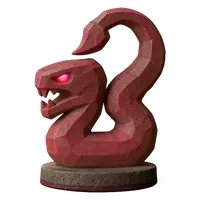
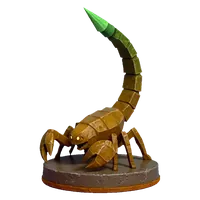
v1.90.28: Der Skorpion ist ein Skorpion
Besitzer 4.10.: "die Figur sieht ja nicht aus wie ein Skorpion ... mir fehlen
Füße und Scheren". Bisher war er eine rote Schlange mit Stachelschwanz.

Drei Anläufe, jeder gezeigt: rot und glatt mit einer Schere; beige mit einer
grünen Blase als Stachel ("es muss geschnitzt aussehen ... komplett anderer
Style ... nicht wie eine Blase"); der dritte AUS DEM HETZER HERAUS geschnitzt -
dessen freigegebenes Bild ging als Vorlage an FLUX Kontext, nur das Wesen wurde
getauscht. So bleiben Oberfläche und Farbe im Stil: dunkelbeige, acht Beine,
zwei Scheren, Mundzangen, Augen, ein geschnitzter Dorn als Stachel. Der Verlauf
ins Grüne den Schwanz hinauf ist gerechnet. Freigegeben ("ist auch super").

Sein Akzent in bosses.js folgt der Figur (#f472b6 -> #c9a24a): er färbt den
Hintergrund der Karte ("beim Einbinden bitte auch die Farben auf den
Hintergrund der Karten übernehmen"). Höhe am Brett 76 % wie bisher - der
Körper ist flach, die Höhe bringt der Schwanz.

Sockel einzeln gemessen (Teller 46), Farbe nur für ihn übernommen. Altes Bild
in archiv/ausgemustert/v1.90.28/.

Proben: 31 Suiten / 2691 Prüfungen (vorher 2690), Kette grün. Am echten Brett,
auf der Karte und im Blatt mit Band angesehen.

Claude-Session: https://claude.ai/code/session_018Tfvp769kvKv88eRG4ctPp

diff --git a/src/content/bosses.js b/src/content/bosses.js
@@ -125,7 +125,7 @@ export const BOSSES = [
   B("b06", "Das Bollwerk",     "The Bulwark",     "golem",   "#9aa5b7", 21, 3, { slides: ORTHO, range: 1 }, { flavorDe: "Man baute es, um etwas fernzuhalten. Niemand weiß mehr, was — es selbst weiß es noch.", flavorEn: "It was built to keep something out. No one remembers what — it still does.", abilities: ["steinhaut", "widerhall", "unsterblich", "schrecken"] }),  // 18->11: Kapitel-I-Grenze (12 Schlaege atk-2)
   B("b07", "Der Geist",        "The Ghost",       "wraith",  "#7dd3fc",  15, 9, { leaps: RING2 }, { flavorDe: "Er ist der Rest eines Eides, der nicht sterben durfte, ehe er erfüllt war.", flavorEn: "He is the remnant of an oath that was not allowed to die before it was kept.", abilities: ["blenden"] }),  // Glaskanone, jetzt fluechtig
   B("b08", "Kanonier",         "Cannoneer",       "golem",   "#ffd166", 16, 8, { slides: ORTHO, range: 3 }, { flavorDe: "Er zählt bis drei und die Mauer fällt; er hat nie weiter zählen müssen.", flavorEn: "He counts to three and the wall falls; he has never needed to count further.", aura: { type: "courtHp", n: 2 }, abilities: ["wegelagerei", "steinhaut", "schrecken", "blenden", "widerhall"] }),  // 10->9
-  B("b09", "Skorpion",         "Scorpion",        "serpent", "#f472b6",  16, 8, { leaps: [...sym(2, 2), ...ORTHO] }, { flavorDe: "Sein Stich schmerzt nicht sofort — das ist das Heimtückische daran.", flavorEn: "His sting does not hurt at once — that is the treachery of it.", abilities: ["gift", "aderlass", "schrecken"] }),
+  B("b09", "Skorpion",         "Scorpion",        "serpent", "#c9a24a",  16, 8, { leaps: [...sym(2, 2), ...ORTHO] }, { flavorDe: "Sein Stich schmerzt nicht sofort — das ist das Heimtückische daran.", flavorEn: "His sting does not hurt at once — that is the treachery of it.", abilities: ["gift", "aderlass", "schrecken"] }),
   B("b10", "Doppelritter",     "Twin Knight",     "beast",   "#3d9bff", 19, 5, { leaps: [...KNIGHT, ...KING] }, { flavorDe: "Zwei Köpfe, ein Wille: Wo einer täuscht, beißt der andere.", flavorEn: "Two heads, one will: where one feints, the other bites.", aura: { type: "wardAdj" }, abilities: ["wegelagerei", "blenden", "aderlass"] }),
   B("b11", "Die Flüsterin",    "The Whisperer",   "wraith",  "#c4b5fd",  20, 4, { slides: KING, range: 1, spawn: { max: 1 } }, { flavorDe: "Sie spricht mit dem Riss, und der Riss antwortet in Dingen, die dann geschehen.", flavorEn: "She speaks with the rift, and the rift replies in things that then come to pass.", abilities: ["geistwandel", "gift"] }),  // spawn 3->2: Blink + Brut kombinierte auf +19 Feldwirkung; HP-Senkung war wirkungslos (sie steht hinten), die Brut ist der Hebel
   B("b12", "Der Richter",      "The Judge",       "tyrant",  "#ffb454", 19, 5, { slides: KING, range: 2 }, { flavorDe: "Sein Urteil ist gefällt, ehe der Fall beginnt — die Verhandlung ist die Vollstreckung.", flavorEn: "His verdict is set before the case begins — the trial is the execution.", aura: { type: "noEnemyPotions" }, abilities: ["schrecken", "widerhall", "blenden"] }),  // 12->11

diff --git a/test_ui.jsx b/test_ui.jsx
@@ -233,6 +233,12 @@ const piece = (x = {}) => ({ id: 1, kind: "Q", color: "w", level: 1, abilities: 
        gesehen und freigegeben. */
     ok(`v1.90.27: die Brutmutter steht bei 100-106 % der Offiziere (${monsterAmBrett("boss-b03").toFixed(1)})`,
       monsterAmBrett("boss-b03") >= 100 && monsterAmBrett("boss-b03") <= 106 && SB5["boss-b03"].teller === 35);
+    /* Der Skorpion (v1.90.28, "ist auch super"): jetzt ein Skorpion - Beine,
+       zwei Scheren, Stachelschwanz ins Gruene -, aus dem Hetzer heraus
+       geschnitzt. Sein Akzent folgt der Figur (Ocker statt Rosa), damit die
+       Karte dahinter passt. */
+    ok("v1.90.28: der Skorpion traegt sein neues Bild (Teller 46) und einen ockerfarbenen Akzent statt Rosa",
+      SB5["boss-b09"].teller === 46 && SB5["boss-b09"].boden === 555 && BOSSES.find((b) => b.id === "b09").accent === "#c9a24a");
     const vier = ["boss-b15", "boss-b22", "boss-b05", "boss-b13"];
     ok(`v1.90.27: Sturmklaue, Zerreisser, Streuner und Brandstifter stehen bei 75-100 % der Offiziere (${vier.map((id) => id.slice(5) + " " + monsterAmBrett(id).toFixed(1)).join(", ")})`,
       vier.every((id) => monsterAmBrett(id) >= 75 && monsterAmBrett(id) <= 100.5 && SB5[id].boden === 555 && SB5[id].oben === 21));

diff --git a/CLAUDE.md b/CLAUDE.md
@@ -41,8 +41,8 @@ gambitrise.com zeigt darauf).
   pruefe-navigation, pruefe-textfluss, test_layout) lesen den Chromium-Pfad aus
   `PW_CHROMIUM`; ohne die Variable gilt der Pfad des Cloud-Containers. Lokal:
   `npx playwright install chromium` und `PW_CHROMIUM=<Pfad zur chrome-Datei>`.
-- `npm test` — volle Batterie. MUSS **31 Suiten / 2690 Prüfungen** melden
-  (Stand v1.90.27; der Runner stoppt nach der ersten roten Suite, also
+- `npm test` — volle Batterie. MUSS **31 Suiten / 2691 Prüfungen** melden
+  (Stand v1.90.28; der Runner stoppt nach der ersten roten Suite, also
   Suitenzahl prüfen, nicht nur Assertions! **Zählweise seit v1.90.18
   (Audit A74): JEDE Suite der Kette meldet eine RESULT-Zeile** — alle Zeilen
   `RESULT…: N passed` summieren; test_balance meldet zwei, darum stehen im
@@ -468,7 +468,7 @@ Quelltext lesen hat wiederholt getäuscht; gemessen wird am lebenden DOM
   Auswahl-Lichtspektakel.
 - Alles Optionale abschaltbar (Klang, Online).
 
-## Offene Baustellen (Stand v1.90.27, 4.10.2026)
+## Offene Baustellen (Stand v1.90.28, 4.10.2026)
 
 **Einstieg für jede neue Sitzung: `design/CHAT-EINSTIEG-2026-09-27.md`** (zehn
 Minuten, mit dem Startsatz für den Chat), dann **`design/UEBERGABE-2026-09-27.md`** — Stand,
@@ -491,7 +491,12 @@ Hier nur der Überblick:
   Akzente lieber RECHNEN: die grobe Helligkeit des geschnitzten Bildes an eine
   Farbvorlage angleichen (Hetzer), mattes Korn als Rauschen auflegen
   (Streuner), ein Auge umfärben (Brandstifter) — das Geschnitzte bleibt.
-  In Arbeit: Skorpion (soll ein echter Skorpion werden: Beine, Scheren);
+  Skorpion (v1.90.28): neu als echter Skorpion — **eine NEUE Figur im Stil
+  bekommt man, indem man ein freigegebenes geschnitztes Bild (hier den Hetzer)
+  als Eingang gibt und nur das Wesen tauschen lässt**; ein freier Auftrag kam
+  glatt und „komplett anderer Style“ zurück. Beim Einbau den `accent` in
+  `bosses.js` an die neue Farbe angleichen — er färbt den Kartenhintergrund.
+  In Arbeit: die Großmeister;
   dazu stehen sechs Großmeister nur bei 62–73 % (Doppelritter, Koloss,
   Eisenfaust, Blutmagd, Kanonier, Seuchenkönig). Runde 3 (nur Akzente): Schleicher, Flüsterin, Brutmutter. Geist
   und Wandlerin bleiben. · Play-Abzeichen als Datei für die Startseite (A58).

diff --git a/CHANGELOG.md b/CHANGELOG.md
@@ -1,5 +1,24 @@
 # Changelog - Gambit Rise
 
+## 1.90.28 - Der Skorpion ist ein Skorpion
+
+Besitzer 4.10.: "die Figur sieht ja nicht aus wie ein Skorpion ... mir fehlen
+Fuesse und Scheren". Bisher war er eine rote Schlange mit Stachelschwanz. Drei
+Anlaeufe: der erste rot und glatt mit einer Schere, der zweite beige mit einer
+gruenen Blase als Stachel ("es muss geschnitzt aussehen ... komplett anderer
+Style ... mach den Stachel nicht wie eine Blase"), der dritte AUS DEM HETZER
+HERAUS geschnitzt (dessen Bild als Vorlage an FLUX Kontext - so bleiben
+Oberflaeche und Farbe im Stil): dunkelbeige, acht Beine, zwei Scheren,
+Mundzangen, Augen, ein geschnitzter Dorn als Stachel. Der Verlauf ins Gruene
+den Schwanz hinauf ist gerechnet. Freigegeben ("ist auch super").
+
+Sein Akzent folgt der Figur (#f472b6 -> #c9a24a), damit der Hintergrund seiner
+Karte passt - Besitzer: "beim Einbinden bitte auch die Farben auf den
+Hintergrund der Karten uebernehmen". Hoehe am Brett 76 % wie bisher: der
+Koerper ist flach, die Hoehe bringt der Schwanz.
+
+Proben: 31 Suiten / 2691 Pruefungen (vorher 2690).
+
 ## 1.90.27 - Sechs Monster in neuer Fassung: Hetzer mit Tiefe; Sturmklaue, Zerreisser, Streuner, Brandstifter und Brutmutter aufrecht
 
 Alle fuenf vom Besitzer am 4.10. freigegeben ("alle sind gut ... gerne

diff --git a/archiv/ausgemustert/v1.90.28/WARUM.md b/archiv/ausgemustert/v1.90.28/WARUM.md
@@ -1,0 +1,7 @@
+# Ausgemustert in v1.90.28
+
+## painted-boss-b09 (+ klein/) — der Skorpion als rote Schlange
+
+Besitzer, 4.10.2026: „die Figur sieht ja nicht aus wie ein Skorpion … mir fehlen
+Füße und Scheren“. Das neue Bild ist ein Skorpion, aus dem Hetzer heraus
+geschnitzt.
